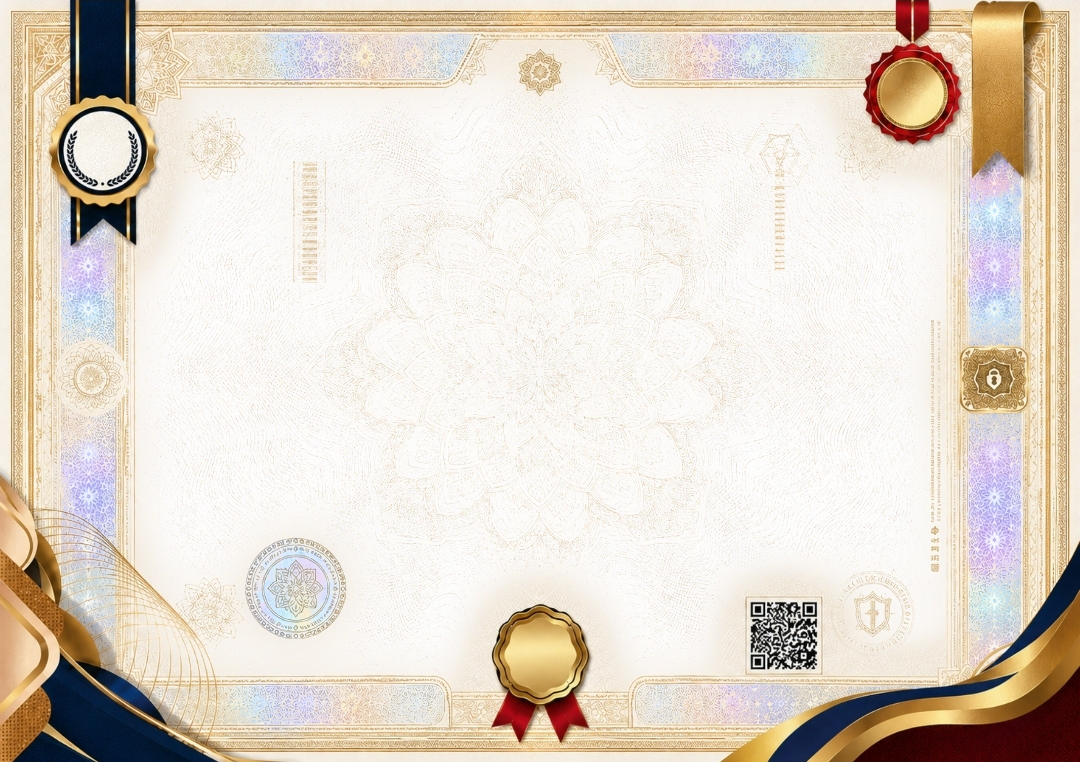
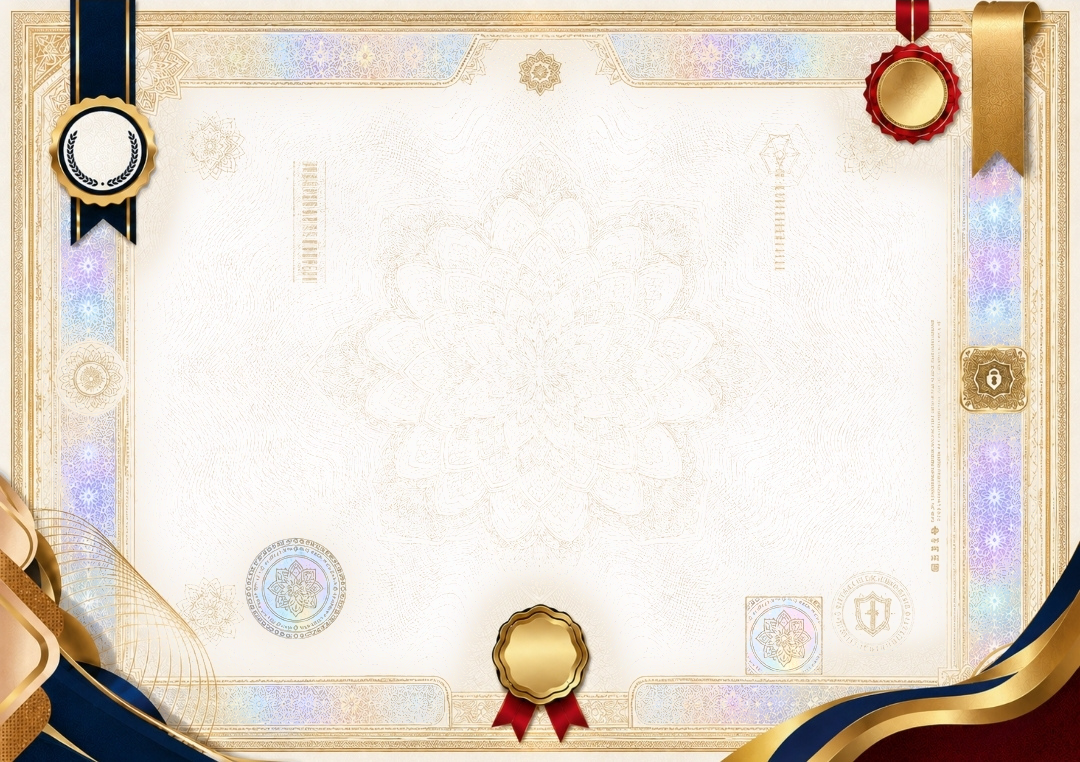
Lock the I'dadiyyah master: remove the decorative QR, activate serial microtext
Authorised by the Founder as Option (1) of three presented.

REMOVAL. scripts/remove-decorative-qr.py replaces the one dead QR block at
x 206.5-224.7mm, y 165.9-184.4mm with a patch cloned from plain guilloche field,
tone-matched to the paper ring around the hole and cosine-feathered so the
pattern carries through. The plate's own gold keyline panel around the slot is
preserved — only the QR matrix is gone. Measured: dark coverage inside the old
block 53.1% -> 0.000%, and max change of 0 of 255 across all 816,154 pixels
outside the patch. That is asserted in the script, which refuses to write if
anything outside the patch moves.

A first attempt scored donors on darkness and chroma and selected the
holographic roundel, because that device is pale and low-chroma. Cloning it
would have replaced a decorative QR with a DUPLICATE of a security device
already present elsewhere on the sheet — a worse defect, and one a brightness
test cannot see. Donor selection is now on EDGE ENERGY: gradient mean 3.6
against the QR region's 69.7.

MICROTEXT. Two rails now carry the live serial, so a sheet copied from another
student contradicts itself in its own border. Placement is measured, not
chosen: y 68mm and y 117mm are the only full-width channels carrying 0.00%
plate ink across x 40-257mm that are also clear of every content box. Set at
0.90 and 0.80pt in solid light ink, never an opacity.

The rail path ids are namespaced per certificate. batch-print.html puts all six
[…]

Changed region(s): [[0.6722, 0.7546, 0.7944, 0.9055]]

diff --git a/functions/_lib/stage-certificate-template.js b/functions/_lib/stage-certificate-template.js
@@ -390,6 +390,39 @@ function plateFor(progCode) {
   return STAGE_PLATE[String(progCode || '').toUpperCase()] || null;
 }
 
+// Per-document microtext for a stage plate (Founder directive, 2026-08-06:
+// "activate the live serial-number microtext").
+//
+// The plate's own microtext is decorative and identical on every sheet. These
+// two rails carry the LIVE serial, so a sheet copied from another student's
+// certificate contradicts itself in its own border.
+//
+// Placement is measured, not chosen: y 68mm and y 117mm are the only two
+// full-width channels that carry 0.00% plate ink across x 40-257mm AND are
+// clear of every content box (name ends 112.5, paragraph starts 121.3;
+// basmala ends 60, title starts 79.8).
+//
+// The ids are namespaced per sheet. batch-print.html puts all six certificates
+// in ONE document, so a fixed id would make every sheet's textPath resolve to
+// the first sheet's path — six certificates all printing student one's serial
+// in their microtext, which is exactly the failure this feature exists to
+// prevent.
+function stagePlateMicrotextSvg(serial, uid) {
+  const micro = `SULTAN HANAFI ROYAL SCHOOLS · OFFICIAL ACADEMIC RECORD · ${serial} · `;
+  const body = escapeHtml(micro.repeat(4));
+  const a = `pm-a-${uid}`, b = `pm-b-${uid}`;
+  // Solid light ink, never an opacity: an opacity on type this small becomes a
+  // screen percentage at separation and is the first thing to drop on press.
+  return `<svg class="o5-plate-micro" viewBox="0 0 297 210" xmlns="http://www.w3.org/2000/svg"
+    xmlns:xlink="http://www.w3.org/1999/xlink" aria-hidden="true">
+    <defs><path id="${a}" d="M40 68 H257"/><path id="${b}" d="M40 117 H257"/></defs>
+    <text font-family="Inter, sans-serif" font-size="0.318" letter-spacing="0.02" fill="#A6905E"
+      ><textPath href="#${a}" xlink:href="#${a}">${body}</textPath></text>
+    <text font-family="Inter, sans-serif" font-size="0.282" letter-spacing="0.03" fill="#B09A68"
+      ><textPath href="#${b}" xlink:href="#${b}">${body}</textPath></text>
+  </svg>`;
+}
+
 // Measured geometry of the official paper (1080×708 source, fractions
 // of the sheet) — the artwork's own designated functional zones:
 //   logo lockup      x 0.40–0.60, y 0.00–0.23  (keep clear)
@@ -1151,7 +1184,8 @@ function sheetHtmlOfficial({ cert, qrSvgMarkup, verifyUrl }) {
     // sheet prints on white and every mark sits at the wrong density.
     return plate
       ? `<div class="official-paper" style="background:${plate.paper}"></div>
-  <img class="official-bg" src="${plate.src}" alt="" />`
+  <img class="official-bg" src="${plate.src}" alt="" />
+  ${stagePlateMicrotextSvg(cert.serial_no, archSeq)}`
       : `<img class="official-bg" src="${OFFICIAL_BACKGROUND}" alt="" />`;
   })()}
 
@@ -1480,6 +1514,7 @@ function docShell(title, sheetsHtml) {
      resolution — the sheet's largest area is the one thing about the supplied
      92 DPI artwork that CAN be made resolution-free. */
   .official-paper{position:absolute;inset:0;}
+  .o5-plate-micro{position:absolute;inset:0;width:100%;height:100%;pointer-events:none;}
 
   /* ═══ OFFICIAL-PAPER EDITORIAL COMPOSITION v3 ═══
      The locked artwork carries the identity; this layer is EDITORIAL

diff --git a/scripts/remove-decorative-qr.py b/scripts/remove-decorative-qr.py
@@ -1,0 +1,104 @@
+#!/usr/bin/env python3
+"""Remove the decorative QR block from the I'dadiyyah plate.
+
+AUTHORISED BY THE FOUNDER, 2026-08-06, as Option (1) of three presented.
+
+WHY. The supplied plate carries a QR-shaped block at x 206.5-224.7mm,
+y 165.9-184.4mm which decodes to NOTHING — tested with ZXing at 1x, 3x and 6x
+on the artwork alone. The live verification module overlaps its lower two
+thirds, so about 6mm of a dead QR protrudes above it. On a credential that
+promises verification, a reader who scans it gets no result; two QR codes where
+one is inert reads as a printing mistake, not a security feature.
+
+WHAT THIS DOES, AND ONLY THIS. It replaces that one rectangle with a patch
+cloned from the cleanest open field on the same plate, tone-matched to the paper
+immediately surrounding the hole and feathered at the edges so the guilloche
+carries through rather than leaving a flat plug. Every other border, ornament,
+guilloche pattern, holographic strip, paper texture and security element is
+untouched — and that is asserted, not asserted-by-comment: the script compares
+the result to the original across the WHOLE sheet and refuses to write if any
+pixel outside the patch has moved.
+
+Usage:
+    python3 scripts/remove-decorative-qr.py <master.jpg> [--write]
+"""
+import sys
+import numpy as np
+from PIL import Image
+
+# Measured, not assumed: the tight bounding box of the dark run inside a
+# generous search window. 53.1% dark coverage — a QR matrix, not an ornament.
+QR = dict(x0=751, x1=817, y0=602, y1=669)
+PAD = 8             # feather margin, in source pixels
+# Donor: plain guilloche field at x 232.4mm, y 122.1mm. Chosen on EDGE ENERGY
+# (gradient mean 3.6, max 13.2) against the QR region's 69.7 — not on darkness.
+# A darkness/chroma test was tried first and selected the holographic roundel at
+# x 70mm, because that device is pale and low-chroma. Cloning it would have
+# replaced a decorative QR with a DUPLICATE of a security device that already
+# appears elsewhere on the sheet — a worse defect than the one being fixed, and
+# one a brightness test cannot see.
+DONOR = (845, 443)
+
+
+def remove(master_path, write=False):
+    im = Image.open(master_path).convert('RGB')
+    src = np.asarray(im).astype(float)
+    out = src.copy()
+    x0, x1, y0, y1 = QR['x0'], QR['x1'], QR['y0'], QR['y1']
+    h, w = (y1 - y0) + 2 * PAD, (x1 - x0) + 2 * PAD
+    ty0, tx0 = y0 - PAD, x0 - PAD
+    dx, dy = DONOR
+
+    donor = src[dy:dy + h, dx:dx + w].copy()
+    target = src[ty0:ty0 + h, tx0:tx0 + w]
+
+    # Tone-match on the paper RING around the hole, never on the hole itself —
+    # the QR's own ink would drag the correction dark and leave a grey ghost.
+    ring = np.concatenate([
+        src[y0 - 10:y0, x0:x1].reshape(-1, 3),
+        src[y1:y1 + 10, x0:x1].reshape(-1, 3),
+        src[y0:y1, x0 - 10:x0].reshape(-1, 3),
+        src[y0:y1, x1:x1 + 10].reshape(-1, 3),
+    ])
+    donor_ring = np.concatenate([donor[:10].reshape(-1, 3), donor[-10:].reshape(-1, 3)])
+    donor = np.clip(donor + (ring.mean(0) - donor_ring.mean(0)), 0, 255)
+
+    # Cosine feather so the seam is not a visible rectangle at press resolution.
+    fy = np.ones(h); fx = np.ones(w)
+    r = np.arange(PAD) / PAD
+    ramp = 0.5 - 0.5 * np.cos(np.pi * r)
+    fy[:PAD], fy[-PAD:] = ramp, ramp[::-1]
+    fx[:PAD], fx[-PAD:] = ramp, ramp[::-1]
+    alpha = (fy[:, None] * fx[None, :])[..., None]
+    out[ty0:ty0 + h, tx0:tx0 + w] = target * (1 - alpha) + donor * alpha
+
+    # ── The guarantee, measured ────────────────────────────────────────────
+    touched = np.zeros(src.shape[:2], bool)
+    touched[ty0:ty0 + h, tx0:tx0 + w] = True
+    outside = np.abs(out - src).max(2)[~touched]
+    inside_dark = (out[y0:y1, x0:x1].mean(2) < 110).mean()
+
+    print(f'patch      x {tx0}-{tx0+w} y {ty0}-{ty0+h}  ({w} x {h} px, {PAD}px feather)')
+    print(f'donor      x {dx} y {dy}  tone-matched to the surrounding paper ring')
+    print(f'outside the patch: max change {outside.max():.0f} / 255 '
+          f'over {(~touched).sum():,} pixels')
+    print(f'inside the old QR: dark coverage {inside_dark*100:.3f}% '
+          f'(was 53.1% — a QR matrix)')
+
+    if outside.max() != 0:
+        raise SystemExit('REFUSING TO WRITE: pixels outside the patch changed')
+    if inside_dark > 0.5:
+        raise SystemExit('REFUSING TO WRITE: the QR block is still dark')
+
+    if write:
+        Image.fromarray(out.round().astype(np.uint8)).save(
+            master_path, quality=96, subsampling=0)
+        print(f'wrote {master_path}')
+    else:
+        print('(dry run — pass --write to apply)')
+
+
+if __name__ == '__main__':
+    if len(sys.argv) < 2:
+        raise SystemExit(__doc__)
+    remove(sys.argv[1], '--write' in sys.argv)

diff --git a/scripts/verify-certificate-codes.py b/scripts/verify-certificate-codes.py
@@ -72,7 +72,7 @@ with tempfile.TemporaryDirectory() as td:
         rasters[dpi] = sorted(Path(td).glob(f'p{dpi}-*.png'))
 
     for i, e in enumerate(entries):
-        qr_ok, bc_ok = [], []
+        qr_ok, bc_ok, qr_count = [], [], []
         # The archive number is the barcode payload: year + 6-digit run.
         want_bc = f'{e["archiveRef"].split("/")[2]}{e["archiveRef"].split("/")[3]}'
         for dpi in DPIS:
@@ -82,9 +82,21 @@ with tempfile.TemporaryDirectory() as td:
             found = symbols(Image.open(rasters[dpi][i]))
             qr_ok.append(('qrcode', e['qrUrl']) in found)
             bc_ok.append(('code128', want_bc) in found)
+            # EXACTLY ONE QR PER SHEET (Founder directive, 2026-08-06).
+            # Finding the right symbol is not enough: an EXTRA one is its own
+            # defect. The supplied plate carried a decorative QR that decoded to
+            # nothing, and a reader who scans a dead code on a credential that
+            # promises verification has every reason to doubt the document.
+            # That block was removed under authorisation; this keeps it removed.
+            qr_count.append(sum(1 for f, _ in found if f == 'qrcode'))
+        extra = [d for d, n in zip(DPIS, qr_count) if n != 1]
+        if extra:
+            failures.append(f'{e["serialNo"]}: expected exactly one QR, found '
+                            + ', '.join(f'{n} at {d} DPI' for d, n in zip(DPIS, qr_count) if n != 1))
         q = f'{sum(qr_ok)}/{len(DPIS)} DPI'
         b = f'{sum(bc_ok)}/{len(DPIS)} DPI'
-        print(f'{i + 1:>5} {e["studentEn"]:<26} {q:>22} {b:>22}')
+        print(f'{i + 1:>5} {e["studentEn"]:<26} {q:>22} {b:>22}'
+              f'{"":>6}{"1 QR only" if not extra else "EXTRA QR"}')
         if not all(qr_ok):
             failures.append(f'{e["serialNo"]}: QR unreadable at '
                             + ', '.join(str(d) for d, ok in zip(DPIS, qr_ok) if not ok) + ' DPI')
